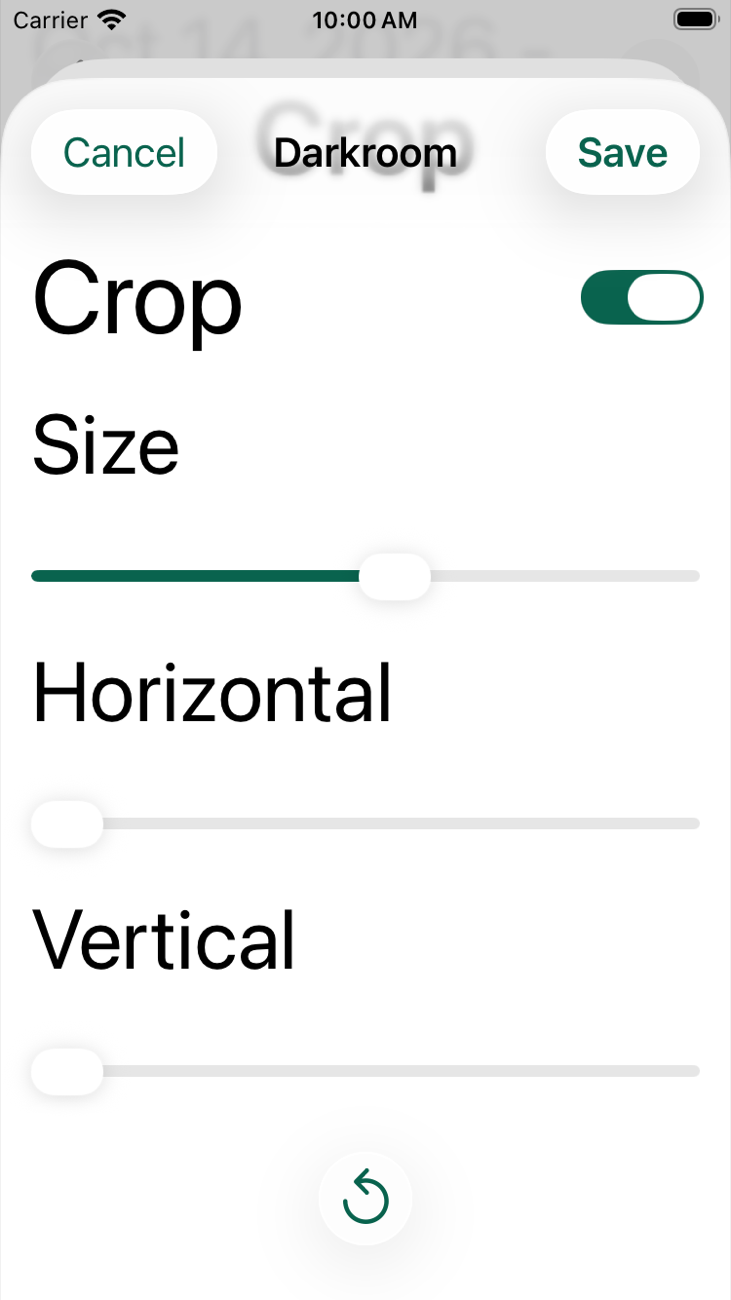
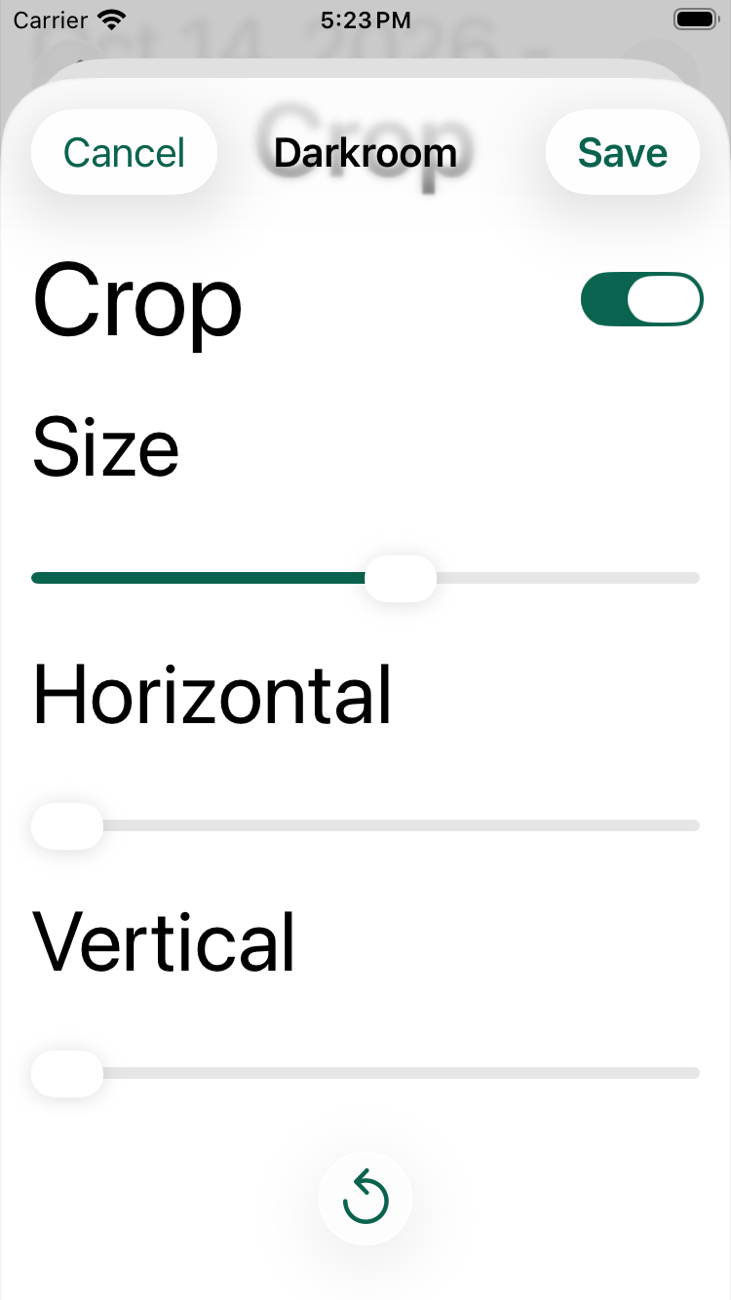
no-mistakes(review): Keep Crop print at 64 pt past the fit

diff --git a/App/Immerse/Tests/JournalIntegrationTests.swift b/App/Immerse/Tests/JournalIntegrationTests.swift
@@ -315,9 +315,9 @@ final class JournalIntegrationTests: XCTestCase {
     }
 
     /// The captain (2026-10-14): a tool whose controls must all show, Crop, has the print give up height below its
-    /// ordinary smallest size where that rests every control on screen, down to 64 pt. Where even that
-    /// print leaves controls below the fold, the print keeps its ordinary smallest size and the screen scrolls as before.
-    func testTheCropToolsPrintGivesUpHeightOnlyWhereEveryControlThenFits() async throws {
+    /// ordinary smallest size to rest every control on screen, down to 64 pt. Where even that print leaves controls
+    /// below the fold, the print stays 64 pt and the screen scrolls only the points the controls still need.
+    func testTheCropToolsPrintGivesUpHeightForItsControlsDownTo64Points() async throws {
         let probe = DarkroomLayoutProbe()
         let scene = try XCTUnwrap(UIApplication.shared.connectedScenes.compactMap { $0 as? UIWindowScene }.first)
         let window = UIWindow(windowScene: scene)
@@ -338,16 +338,55 @@ final class JournalIntegrationTests: XCTestCase {
         XCTAssertEqual(fitted.print.minY, resting.print.minY, accuracy: 0.5, "The print keeps its top edge")
         XCTAssertEqual(fitted.controls.maxY, resting.controls.maxY, accuracy: 0.5, "The controls end where they did")
 
-        // Controls that would leave the print under 64 pt cannot all fit: the print is 160 pt and the screen scrolls.
+        // Controls that would leave the print 63 pt cannot all fit: the print stays 64 pt and the screen scrolls 1 pt.
         probe.extraControlsHeight = room + 97
         let crowded = try await settledFrames(probe)
-        XCTAssertEqual(crowded.print.height, 160, accuracy: 0.5, "Where they cannot all fit the print is as before")
+        XCTAssertEqual(crowded.print.height, 64, accuracy: 0.5, "Where they cannot all fit the print keeps its smallest size")
+        XCTAssertEqual(crowded.print.minY, resting.print.minY, accuracy: 0.5, "The print keeps its top edge")
+        XCTAssertEqual(crowded.controls.maxY, resting.controls.maxY + 1, accuracy: 0.5, "Only the missing point scrolls")
 
         // Where everything fits anyway, fitting changes nothing.
         probe.extraControlsHeight = 0
         let roomy = try await settledFrames(probe)
         XCTAssertEqual(roomy.print, resting.print)
         XCTAssertEqual(roomy.controls, resting.controls)
+    }
+
+    /// The captain (2026-10-14): a larger text size never gives the Crop tool's print more height. With controls that
+    /// leave the print 80 pt at the default text size, as the Crop tool's do on an iPhone SE, the print shrinks as the
+    /// text grows; the two sizes past the largest whose controls all fit keep a 64 pt print, never 160 pt, and the
+    /// screen scrolls only the points the controls still need.
+    func testTheCropToolsPrintKeeps64PointsPastTheLargestTextSizeThatFits() async throws {
+        let probe = DarkroomLayoutProbe()
+        let scene = try XCTUnwrap(UIApplication.shared.connectedScenes.compactMap { $0 as? UIWindowScene }.first)
+        let window = UIWindow(windowScene: scene)
+        window.rootViewController = UIHostingController(rootView: DarkroomLayoutProbeView(probe: probe))
+        window.makeKeyAndVisible()
+        defer { window.isHidden = true; window.rootViewController = nil }
+        let resting = try await settledFrames(probe)
+        probe.fitsEveryControl = true
+        probe.extraControlsHeight = resting.print.height - 80
+        var sized: [(size: DynamicTypeSize, print: CGRect, controls: CGRect)] = []
+        for size in DynamicTypeSize.allCases where size >= .large {
+            probe.dynamicTypeSize = size
+            let frames = try await settledFrames(probe)
+            sized.append((size, frames.print, frames.controls))
+        }
+        XCTAssertEqual(sized[0].print.height, 80, accuracy: 0.5, "The print gives up the height the controls need")
+        for (smaller, larger) in zip(sized, sized.dropFirst()) {
+            XCTAssertLessThanOrEqual(larger.print.height, smaller.print.height + 0.5, "\(larger.size): the print never grows")
+        }
+
+        let largestThatFits = try XCTUnwrap(sized.lastIndex { $0.controls.maxY <= resting.controls.maxY + 0.5 })
+        XCTAssertGreaterThanOrEqual(sized.count, largestThatFits + 3, "Two text sizes are past the largest that fits")
+        for crowded in sized.dropFirst(largestThatFits + 1).prefix(2) {
+            XCTAssertEqual(crowded.print.height, 64, accuracy: 0.5, "\(crowded.size): the print keeps 64 pt, never 160 pt")
+            XCTAssertEqual(crowded.print.minY, resting.print.minY, accuracy: 0.5, "\(crowded.size): the print keeps its top edge")
+            let fitting = resting.print.height - (crowded.controls.height - resting.controls.height)
+            XCTAssertLessThan(fitting, 64, "\(crowded.size): the controls cannot all fit")
+            XCTAssertEqual(crowded.controls.maxY - resting.controls.maxY, 64 - fitting, accuracy: 0.5,
+                           "\(crowded.size): the screen scrolls only the points the controls still need")
+        }
     }
 
     /// The frames once two looks 50 ms apart agree: the controls' measured height reaches the print a layout pass later.
@@ -666,6 +705,7 @@ private final class DarkroomLayoutProbe {
     var fitsEveryControl = false
     /// Height added under the stand-in controls.
     var extraControlsHeight: CGFloat = 0
+    var dynamicTypeSize = DynamicTypeSize.large
     @ObservationIgnored var printFrame = CGRect.null
     @ObservationIgnored var controlsFrame = CGRect.null
 }
@@ -683,6 +723,7 @@ private struct DarkroomLayoutProbeView: View {
                 Color.clear.frame(height: probe.extraControlsHeight)
             }.onGeometryChange(for: CGRect.self) { $0.frame(in: .global) } action: { probe.controlsFrame = $0 }
         }
+        .dynamicTypeSize(probe.dynamicTypeSize)
     }
 }
 

diff --git a/App/Immerse/Sources/PhotoView.swift b/App/Immerse/Sources/PhotoView.swift
@@ -16,14 +16,14 @@ private struct ControlsHeightKey: PreferenceKey {
 /// print, outside the measured controls, so it does not resize the print on every render or rescale a Dodge/Burn
 /// stroke. An error shows between the print and the controls and is measured with them: the print gives up the
 /// error's height, so the selected tool rests on screen under the error and does not wait below the fold. A tool whose
-/// controls must all show at once, the Crop's three sliders, can have the print go below its smallest ordinary size
-/// where that rests every control on screen.
+/// controls must all show at once, the Crop's three sliders, has the print go below its smallest ordinary size, down to
+/// a smaller floor, to rest every control on screen; past that floor the screen scrolls the rest.
 struct DarkroomLayout<Preview: View, Controls: View>: View {
     let rendering: Bool
     let error: String?
-    /// Whether the print gives up height below `minimumPrintHeight`, down to `smallestFittedPrintHeight`, when that rests every
-    /// control on screen. Where even that print leaves controls below the fold, the print keeps its ordinary smallest
-    /// size and the screen scrolls, so a larger text size shows the controls as it would without this.
+    /// Whether the print gives up height below `minimumPrintHeight`, down to `smallestFittedPrintHeight`, to rest every
+    /// control on screen. Where even that print leaves controls below the fold, the print stays at that size and the
+    /// screen scrolls only the rest, so a larger text size never has a larger print.
     var fitsEveryControl = false
     @ViewBuilder let preview: Preview
     @ViewBuilder let controls: Controls
@@ -34,9 +34,10 @@ struct DarkroomLayout<Preview: View, Controls: View>: View {
     /// that: the longest explanation then leaves the Exposure tool on an iPhone SE's screen, with the print still shown.
     private var minimumPrintHeight: CGFloat { error == nil ? 160 : 80 }
 
-    /// The smallest the print is shown so that every control fits, two fifths of its ordinary smallest size. With a
-    /// crop smaller than the whole print, the Crop tool's controls leave an iPhone SE's print 80 pt at the default text
-    /// size, a fraction of a point short of the 80 pt an error allows, so the fitted print is allowed less.
+    /// The smallest the print is shown in a tool whose controls must all show, two fifths of its ordinary smallest size,
+    /// with or without an error. With a crop smaller than the whole print, the Crop tool's controls leave an iPhone SE's
+    /// print 80 pt at the default text size, a fraction of a point short of the 80 pt an error allows, so the fitted
+    /// print is allowed less.
     private static var smallestFittedPrintHeight: CGFloat { 64 }
 
     /// The controls' bottom margin, over which controls that run past the scroll area fade out rather than end in a
@@ -49,9 +50,8 @@ struct DarkroomLayout<Preview: View, Controls: View>: View {
     private static var bottomBarSpacing: CGFloat { 4 }
 
     private func printHeight(in available: CGFloat) -> CGFloat {
-        let fitting = available - controlsHeight - 18 - 16 - Self.bottomMargin - Self.bottomBarSpacing
-        if fitsEveryControl && fitting >= Self.smallestFittedPrintHeight { return fitting }
-        return max(minimumPrintHeight, fitting)
+        max(fitsEveryControl ? Self.smallestFittedPrintHeight : minimumPrintHeight,
+            available - controlsHeight - 18 - 16 - Self.bottomMargin - Self.bottomBarSpacing)
     }
 
     var body: some View {

diff --git a/Probes/PopulatedJournalHarness/Tests/PopulatedWorkflowTests.swift b/Probes/PopulatedJournalHarness/Tests/PopulatedWorkflowTests.swift
@@ -699,8 +699,8 @@ final class PopulatedWorkflowTests: XCTestCase {
     /// shows. With a crop smaller than the whole print, at the default text size the switch and the Size, Horizontal and
     /// Vertical sliders and their captions all rest between the navigation bar and the fade, above Reset to Original,
     /// with nothing scrolled, and the Vertical slider takes a drag there. The print is still shown above them, and back
-    /// in Exposure it has the size it had before Crop. At the largest size the controls cannot all fit, so the Vertical
-    /// slider is scrolled to, comes fully clear of the fade and takes the same drag.
+    /// in Exposure it has the size it had before Crop. At the largest size the controls cannot all fit, so the print
+    /// keeps 64 pt and the Vertical slider is scrolled to, comes fully clear of the fade and takes the same drag.
     func testDarkroomRestsEveryCropControlOnScreenAtTheDefaultSize() throws { assertDarkroomCropFits(largest: false) }
     func testDarkroomScrollsTheCropControlsClearAtTheLargestSize() throws { assertDarkroomCropFits(largest: true) }
 
@@ -743,6 +743,7 @@ final class PopulatedWorkflowTests: XCTestCase {
         XCTAssertLessThanOrEqual(area.frame.maxY, reset.frame.minY, "\(name): the controls end above Reset to Original")
         snapshot(app, name)
         if largest {
+            XCTAssertEqual(print.frame.height, 64, accuracy: 1, "\(name): the print keeps its smallest Crop size, never 160 pt")
             for _ in 0..<16 where vertical.frame.maxY > clear { dragUp(app, by: 240) }
             snapshot(app, "\(name)-vertical")
         } else {

diff --git a/Evidence/NativeApp/crop-fit-short-screens-063.md b/Evidence/NativeApp/crop-fit-short-screens-063.md
@@ -21,10 +21,11 @@ On the iPhone 17 Pro the same test passed before the change, with the Vertical s
 ## The Change
 
 `DarkroomLayout` (`App/Immerse/Sources/PhotoView.swift`) takes `fitsEveryControl`, which the Darkroom sets for the Crop tool only.
-With it, the print may go below its ordinary smallest size of 160 pt, down to 64 pt, where that rests every control on screen.
-Where even a 64 pt print would leave controls below the fold, the print keeps 160 pt and the screen scrolls exactly as before.
+With it, the print gives up height below its ordinary smallest size of 160 pt, down to 64 pt, to rest every control on screen.
+Where even a 64 pt print leaves controls below the fold, the print stays 64 pt and the screen scrolls only the points still missing, so a larger text size never gets a larger print.
+The scroll area still ends above Reset to Original, so no control rests under it and none is clipped.
 Where everything already fits, as on the iPhone 17 Pro, the print is the height the controls leave, as before, so nothing changes.
-Every other tool keeps the rule it had, and the explanation of an error still takes its height from the print down to 80 pt.
+Every other tool keeps the rule it had, in which the explanation of an error takes its height from the print down to 80 pt; in the Crop tool the floor is 64 pt with or without an error.
 Nothing in rendering, recipes, saved prints or product text changed.
 
 On the iPhone SE at the default text size, the print in the Crop tool with a crop smaller than the whole print is now 80 pt tall, 120 by 80 pt for the Disposable's 3:2 picture.
@@ -37,12 +38,19 @@ The 80 pt an error already allows is therefore just too much: with 80 pt as the 
 64 pt, two fifths of the ordinary 160 pt, leaves the SE's default text size a margin of about 16 pt and still shows the cropped print at a size whose framing can be judged.
 A smaller floor would only let a larger text size fit too, with a print too small to judge the crop by; there the screen scrolls instead.
 
+### No Step Back to 160 pt
+
+The first version of this change kept the print at 160 pt wherever a 64 pt print could not rest every control.
+Review on 2026-10-14 found the step that left: the iPhone SE's default text size fits with about 16 pt to spare, and one or two sizes larger the heading and the three captions grow past that, so the print would jump back to 160 pt and put the Vertical slider wholly under Reset to Original again, the finding the captain answered.
+The floor now holds: the print shrinks to 64 pt and stays there as the text grows, and the screen scrolls only the points still missing.
+
 ## What Holds It
 
 - `testDarkroomRestsEveryCropControlOnScreenAtTheDefaultSize` (populated harness, the check's harness part) opens Crop on a Disposable print, turns the crop on, moves Size to 0.6, and checks with nothing scrolled that the switch, the heading, the three sliders and their captions all rest between the navigation bar and the fade, above Reset to Original, that the print is below the bar, above the controls and at least 64 pt tall, and that the Vertical slider is hittable and takes a drag.
   It then turns the crop off, returns to Exposure and checks that the print has the height it had before Crop opened.
-- `testDarkroomScrollsTheCropControlsClearAtTheLargestSize` does the same at the largest text size, where the controls cannot all fit: the Vertical slider is scrolled to with held drags, comes fully clear of the fade, and takes the drag.
-- `testTheCropToolsPrintGivesUpHeightOnlyWhereEveryControlThenFits` (hosted, `JournalIntegrationTests`) holds the rule in `DarkroomLayout` itself: controls that leave 120 pt keep the print at 160 pt without `fitsEveryControl` and give it 120 pt with it, the print keeping its top edge; controls that would leave it under 64 pt keep 160 pt; and where everything fits, every frame is as without it.
+- `testDarkroomScrollsTheCropControlsClearAtTheLargestSize` does the same at the largest text size, where the controls cannot all fit: the print is 64 pt, and the Vertical slider is scrolled to with held drags, comes fully clear of the fade, and takes the drag.
+- `testTheCropToolsPrintGivesUpHeightForItsControlsDownTo64Points` (hosted, `JournalIntegrationTests`) holds the rule in `DarkroomLayout` itself: controls that leave 120 pt keep the print at 160 pt without `fitsEveryControl` and give it 120 pt with it, the print keeping its top edge; controls that would leave it 63 pt give it 64 pt, with the controls ending 1 pt past the scroll area's clear part; and where everything fits, every frame is as without it.
[1 lines of base64/hex data omitted]
 
 CI creates only iPhone 17 Pro simulators, where everything fits, so the check runs the new screen tests there; the iPhone SE runs below are this record's.
 
@@ -87,6 +95,19 @@ Here that test passed in every run above, before and after the merge, and the Cr
 
 The package tests on a Mac and RenderCore's tests in the simulator were not run again: the change touches no package, and the merge brought no package change that meets it.
 
+### Again after review
+
+The floor of 64 pt that holds as the text grows ("No Step Back to 160 pt", above), on new iPhone SE (3rd generation) and iPhone 17 Pro simulators on iOS 26.5, in light:
+
+| Check | Result |
+| --- | --- |
+| The two hosted Crop layout tests on the rule before review, iPhone 17 Pro | Both fail: the print is 160 pt where 64 pt is expected; with the text growing it is 67 pt at accessibility1, then 160 pt at accessibility2 and accessibility3 |
+| The two hosted Crop layout tests and `testADarkroomErrorTakesItsHeightFromThePrintAndLeavesTheControlsInPlace`, iPhone SE | 3 passed, 0 failures |
+| The two Crop screen tests, iPhone SE and iPhone 17 Pro | 2 passed, 0 failures on each; at the largest text size the print is 64 pt on both |
+| `Scripts/verify-document-package.sh` | Pass |
+
+Dark was not run again, since the rule reads no color; the largest-text pictures below are from this run.
+
 The Darkroom has no accessibility audit of its own: the fit tests are its text-size checks and `testDarkroomAccessibleControlsReachNonGestureEditingPaths` is the check of its controls, as `darkroom-export-decisions-060.md` says.
 The text-size suite and the audits of other screens ran on the merged code (above); the package tests were left to the check.
 
@@ -112,14 +133,14 @@ On the iPhone 17 Pro the print is at 162 pt and the Vertical slider at 741 pt be
 | --- | --- |
 | ![All three sliders show](crop-fit-short-screens-063/crop-before-pro-dark.png) | ![The same](crop-fit-short-screens-063/crop-after-pro-dark.png) |
 
-At the largest text size on the iPhone SE the print keeps 160 pt and the controls scroll, as before.
+At the largest text size on the iPhone SE the print is 64 pt and the controls scroll.
 
 | iPhone SE, largest text, at rest | Scrolled to the Vertical slider |
 | --- | --- |
-| ![The print at 160 pt over the Crop heading and switch](crop-fit-short-screens-063/crop-largest-se-light.png) | ![The Vertical slider clear of the fade](crop-fit-short-screens-063/crop-largest-se-light-vertical.png) |
+| ![The print at 64 pt over the Crop heading and switch](crop-fit-short-screens-063/crop-largest-se-light.png) | ![The Vertical slider clear of the fade](crop-fit-short-screens-063/crop-largest-se-light-vertical.png) |
 
 ## Not Shown Here
 
 - A real iPhone SE or any physical iPhone.
-- Text sizes between the default and the largest, other than through the rule: there the print shrinks if a print of 64 pt or more then shows every Crop control, and otherwise stays 160 pt with the screen scrolling.
+- Text sizes between the default and the largest in the real Darkroom, other than through the rule and its hosted test: there the print shrinks as far as 64 pt to show every Crop control, and past that stays 64 pt with the screen scrolling the rest.
 - VoiceOver on a device.

diff --git a/2026-09-29-film-camera-experience-v1/2026-09-29-film-camera-experience-v1-evidence-map.md b/2026-09-29-film-camera-experience-v1/2026-09-29-film-camera-experience-v1-evidence-map.md
@@ -497,7 +497,7 @@ No row is accepted: every v1 ID still needs the named decision, device or hardwa
 | DRK-01 | Final-quality and full-control acceptance open. | DarkroomView, FilmProcessor, RenderCore and FilmPersistence. | Partial 037 UI/state comparison: saved exposure edit changes photo 1 print bytes, preserves photo 2 and treatment assignments, and survives relaunch. |
 | DRK-02 | All-control acceptance on a phone open. | `DarkroomView` and native print renderer. | Partial: saved exposure edit and reopen verified in 037; the Contrast grade control is reachable in the actual views (`darkroom-player-observation-044.md`). The ranges are the captain's of 2026-10-13: exposure runs to 3 stops either way, prints where the stops put it at both ends, and a recipe saved under the earlier 2 stops prints the same bytes (`DarkroomLimitsTests`; the sliders reach and speak both ends in the populated harness, `Evidence/NativeApp/darkroom-export-decisions-060.md`). |
 | DRK-03 | Phone acceptance; the toning strength was decided 2026-10-13 (DEC-04). | `DarkroomView` CMY controls; `NativePhotoRenderer`; `ToningLook`. | Partial: CMY filtration is reachable in the actual views (044); toning applies only to the silver-gelatin prints of a black-and-white Film, with each toner's range as the captain set it on the toning comparison board on 2026-10-13 (`ToningLookTests`; `Evidence/NativeApp/instant-study-and-toning-061.md`); no saturation control. Filtration at -30 and +30 prints a defined picture alone and with every other control at an end (`DarkroomLimitsTests`). |
-| DRK-04 | Phone acceptance. | `DarkroomView` Crop; RenderCore `Crop`. | Partial: crop controls are reachable in the actual views (044) for every Photo Camera except the Instant (DRK-09); crop per photo, with the 6×6 staying square, was approved on 2026-10-13. Since 2026-10-14 (captain: "immerse crop fit") the print gives up height in the Crop tool on a short screen, down to 64 pt, so every Crop control rests on screen at the default text size; an iPhone SE simulator shows all three sliders above Reset to Original (`Evidence/NativeApp/crop-fit-short-screens-063.md`). No physical iPhone. |
+| DRK-04 | Phone acceptance. | `DarkroomView` Crop; RenderCore `Crop`. | Partial: crop controls are reachable in the actual views (044) for every Photo Camera except the Instant (DRK-09); crop per photo, with the 6×6 staying square, was approved on 2026-10-13. Since 2026-10-14 (captain: "immerse crop fit") the print gives up height in the Crop tool on a short screen, down to 64 pt, so every Crop control rests on screen at the default text size, and at larger text sizes stays 64 pt with the screen scrolling only the rest, never growing back; an iPhone SE simulator shows all three sliders above Reset to Original (`Evidence/NativeApp/crop-fit-short-screens-063.md`). No physical iPhone. |
 | DRK-05 | Gesture and assistive acceptance. | `DarkroomView` Dodge/Burn; RenderCore `LocalMask`. | Partial: non-gesture Dodge/Burn and Undo are reachable in the actual views (044, 045), and a drawn dodge stroke paints without scrolling the Darkroom, renders and persists across relaunch (`darkroom-gesture-tint-047.md`). Device touch, Pencil and assistive technologies are untested. Since 2026-10-13 a stroke has a strength of 0.1 to 3.0 stops, and overlapping strokes together stop at 3 stops, which keeps a stack of them from overflowing the renderer (`DarkroomLimitsTests.testOverlappingStrokesNeverPassTheLimit`, `Evidence/NativeApp/darkroom-export-decisions-060.md`). |
 | DRK-06 | Full control/physical acceptance open. | DarkroomView, native print renderer and recipe persistence. | Partial 037: Reset/save/reopen restores original recipe and byte-identical print/source/master after saved exposure edit, without changing photo 2 or treatments. Reset stays byte-exact with the wider limits, and returns a print whose stored recipe is outside them (`StoredRecipeLimitsTests`). |
 | DRK-08 | Physical/full navigation acceptance open. | FilmDetailView/PhotoDetailView; PopulatedJournalHarness. | Partial 037 legacy UI regression: developed/empty Movie has no Darkroom; real photo path reaches it. |
